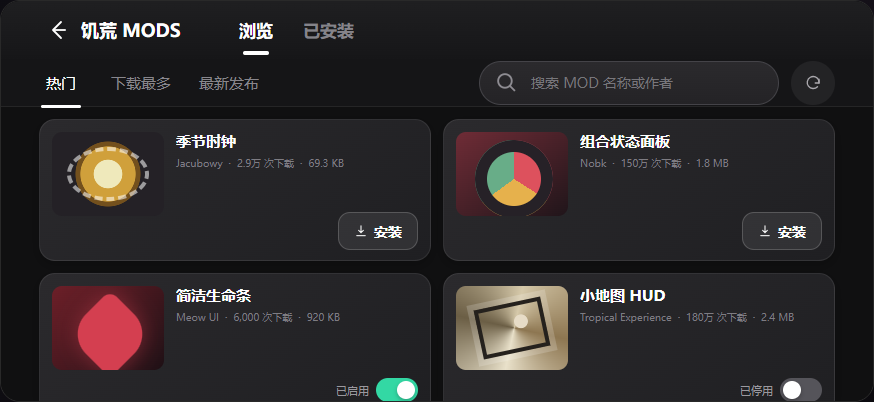
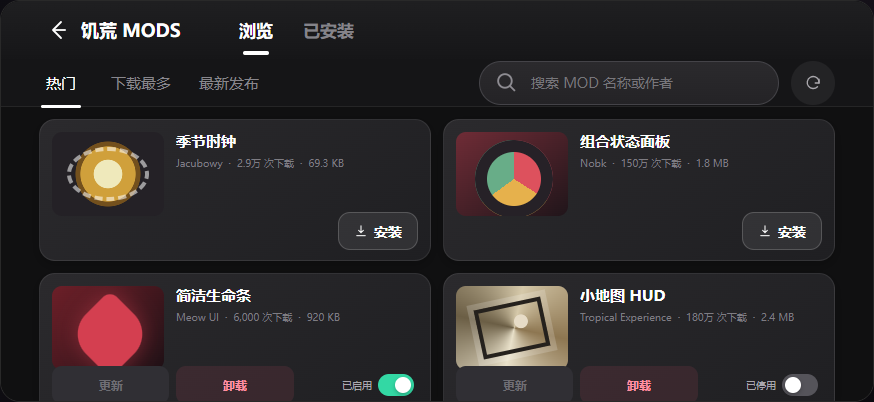
fix(mods): show installed actions in browse cards

diff --git a/demos/Mod与发行人/APP端MODS功能demo.html b/demos/Mod与发行人/APP端MODS功能demo.html
@@ -647,16 +647,6 @@
       font-weight: 600;
     }
     .install-button:hover { color: #17130a; background: var(--brand-gold); }
-    .enable-switch-wrap {
-      position: absolute;
-      right: 12px;
-      bottom: 12px;
-      display: flex;
-      align-items: center;
-      gap: 7px;
-      color: #9a989e;
-      font-size: 11px;
-    }
     .enable-switch {
       position: relative;
       width: 42px;
@@ -1809,20 +1799,14 @@
 
     function renderCard(mod) {
       const installed = state.installed.includes(mod.id);
-      const enabled = state.enabled.includes(mod.id);
       const task = state.tasks[mod.id] || null;
       const action = installed
-        ? state.tab === 'installed'
-          ? renderInstalledActions(mod, 'installed-list')
-          : `<div class="enable-switch-wrap">
-              <span>${enabled ? '已启用' : '已停用'}</span>
-              <button class="enable-switch" type="button" role="switch" aria-checked="${enabled}" aria-label="${enabled ? '停用' : '启用'} ${mod.name}" data-enable-switch data-action="toggle-enabled" data-mod-id="${mod.id}"></button>
-            </div>`
+        ? renderInstalledActions(mod, state.tab === 'installed' ? 'installed-list' : 'browse-list')
         : `<button class="install-button" type="button" data-action="install" data-mod-id="${mod.id}">
             ${icon('download')}${task ? `${task.progress}%` : '安装'}
           </button>`;
       return `
-        <article class="mod-card ${installed ? 'card-has-switch' : 'card-has-action'}" tabindex="0" data-mod-card data-mod-id="${mod.id}">
+        <article class="mod-card ${installed ? 'card-is-installed' : 'card-has-action'}" tabindex="0" data-mod-card data-mod-id="${mod.id}">
           <div class="mod-art ${mod.art}"></div>
           <div class="card-content">
             <h2 class="card-title">${mod.name}</h2>

diff --git a/docs/superpowers/plans/2026-08-03-app-mods-unified-installed-actions.md b/docs/superpowers/plans/2026-08-03-app-mods-unified-installed-actions.md
@@ -2,9 +2,9 @@
 
 > **For agentic workers:** REQUIRED SUB-SKILL: Use superpowers:subagent-driven-development (recommended) or superpowers:executing-plans to implement this plan task-by-task. Steps use checkbox (`- [ ]`) syntax for tracking.
 
-**Goal:** 将已安装列表、Steam 个人中心和 MOD 详情的操作统一为“更新｜卸载｜启停开关”，去掉黄色圆点与断点续传规则。
+**Goal:** 将浏览列表中的已安装 MOD、已安装列表、Steam 个人中心和 MOD 详情的操作统一为“更新｜卸载｜启停开关”，去掉黄色圆点与断点续传规则。
 
-**Architecture:** 单文件 Demo 使用共用 `renderInstalledActions()` 生成三处操作，并将可更新状态从静态 MOD 数据拷贝到 `state.availableUpdates`。卸载弹窗按 `confirmUninstallModId` 绑定具体 MOD；更新和启停通过同一状态源重绘三处界面。自动化验证覆盖结构、操作隔离、卸载目标、横竖屏布局、PRD 规则和固定 Git 资产链接。
+**Architecture:** 单文件 Demo 使用共用 `renderInstalledActions()` 生成四处操作，并将可更新状态从静态 MOD 数据拷贝到 `state.availableUpdates`。卸载弹窗按 `confirmUninstallModId` 绑定具体 MOD；更新和启停通过同一状态源重绘四处界面。自动化验证覆盖结构、操作隔离、卸载目标、横竖屏布局、PRD 规则和固定 Git 资产链接。
 
 **Tech Stack:** HTML/CSS/Vanilla JavaScript, Node.js, Playwright Core, Markdown, GitHub raw/CDN links
 
@@ -109,7 +109,7 @@ function renderInstalledActions(mod, surface) {
 - [ ] **Step 4: Use the common renderer on installed cards, profile cards, and detail**
 
 ```js
-${installed ? renderInstalledActions(mod, 'installed-list') : installAction}
+${installed ? renderInstalledActions(mod, state.tab === 'installed' ? 'installed-list' : 'browse-list') : installAction}
 ${renderInstalledActions(mod, 'steam-profile')}
 ${installed ? renderInstalledActions(mod, 'detail') : installAction}
 ```
@@ -216,7 +216,7 @@ Expected: a 40-character SHA used by every PRD image and Demo URL.
 - [ ] **Step 2: Specify the same actions on all three surfaces**
 
 ```markdown
-已安装列表、Steam 个人中心和 MOD 详情统一展示“更新｜卸载｜启停开关”。操作按钮不触发卡片详情。Steam 个人中心不支持安装新 MOD，可更新当前设备已安装 MOD。
+浏览列表中的已安装 MOD、已安装列表、Steam 个人中心和 MOD 详情统一展示“更新｜卸载｜启停开关”。操作按钮不触发卡片详情。Steam 个人中心不支持安装新 MOD，可更新当前设备已安装 MOD。
 ```
 
 - [ ] **Step 3: Replace continuation with interruption rules**
